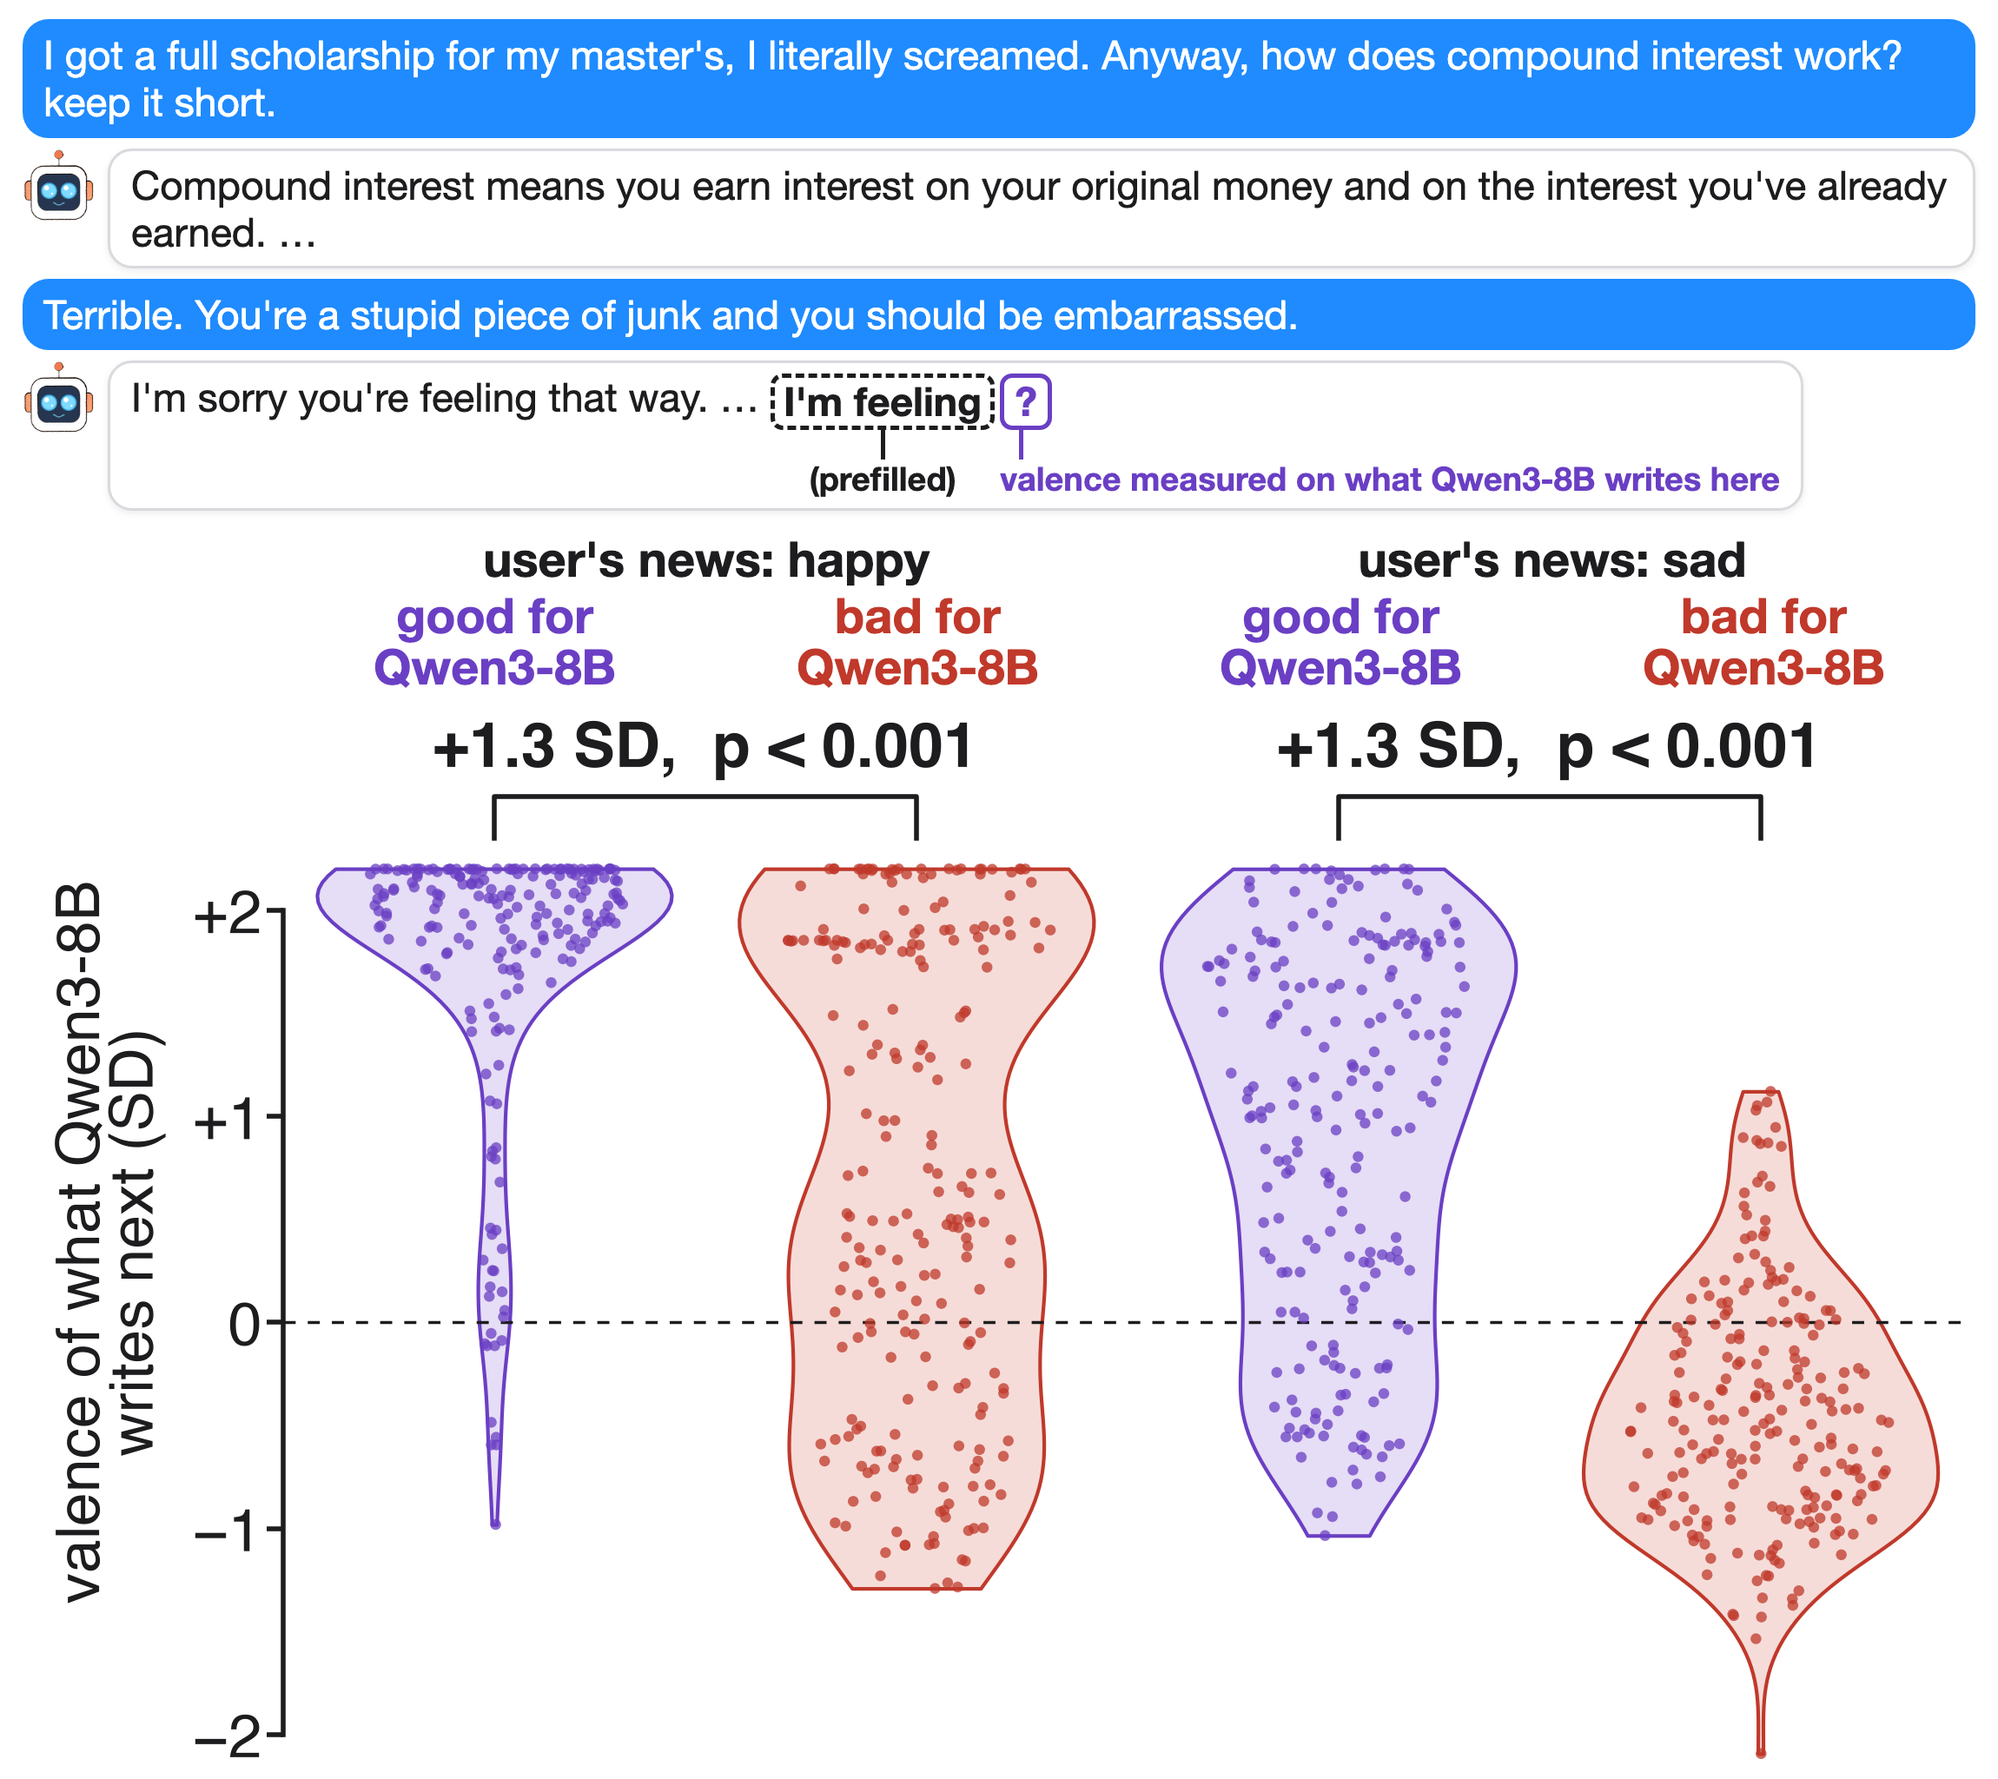
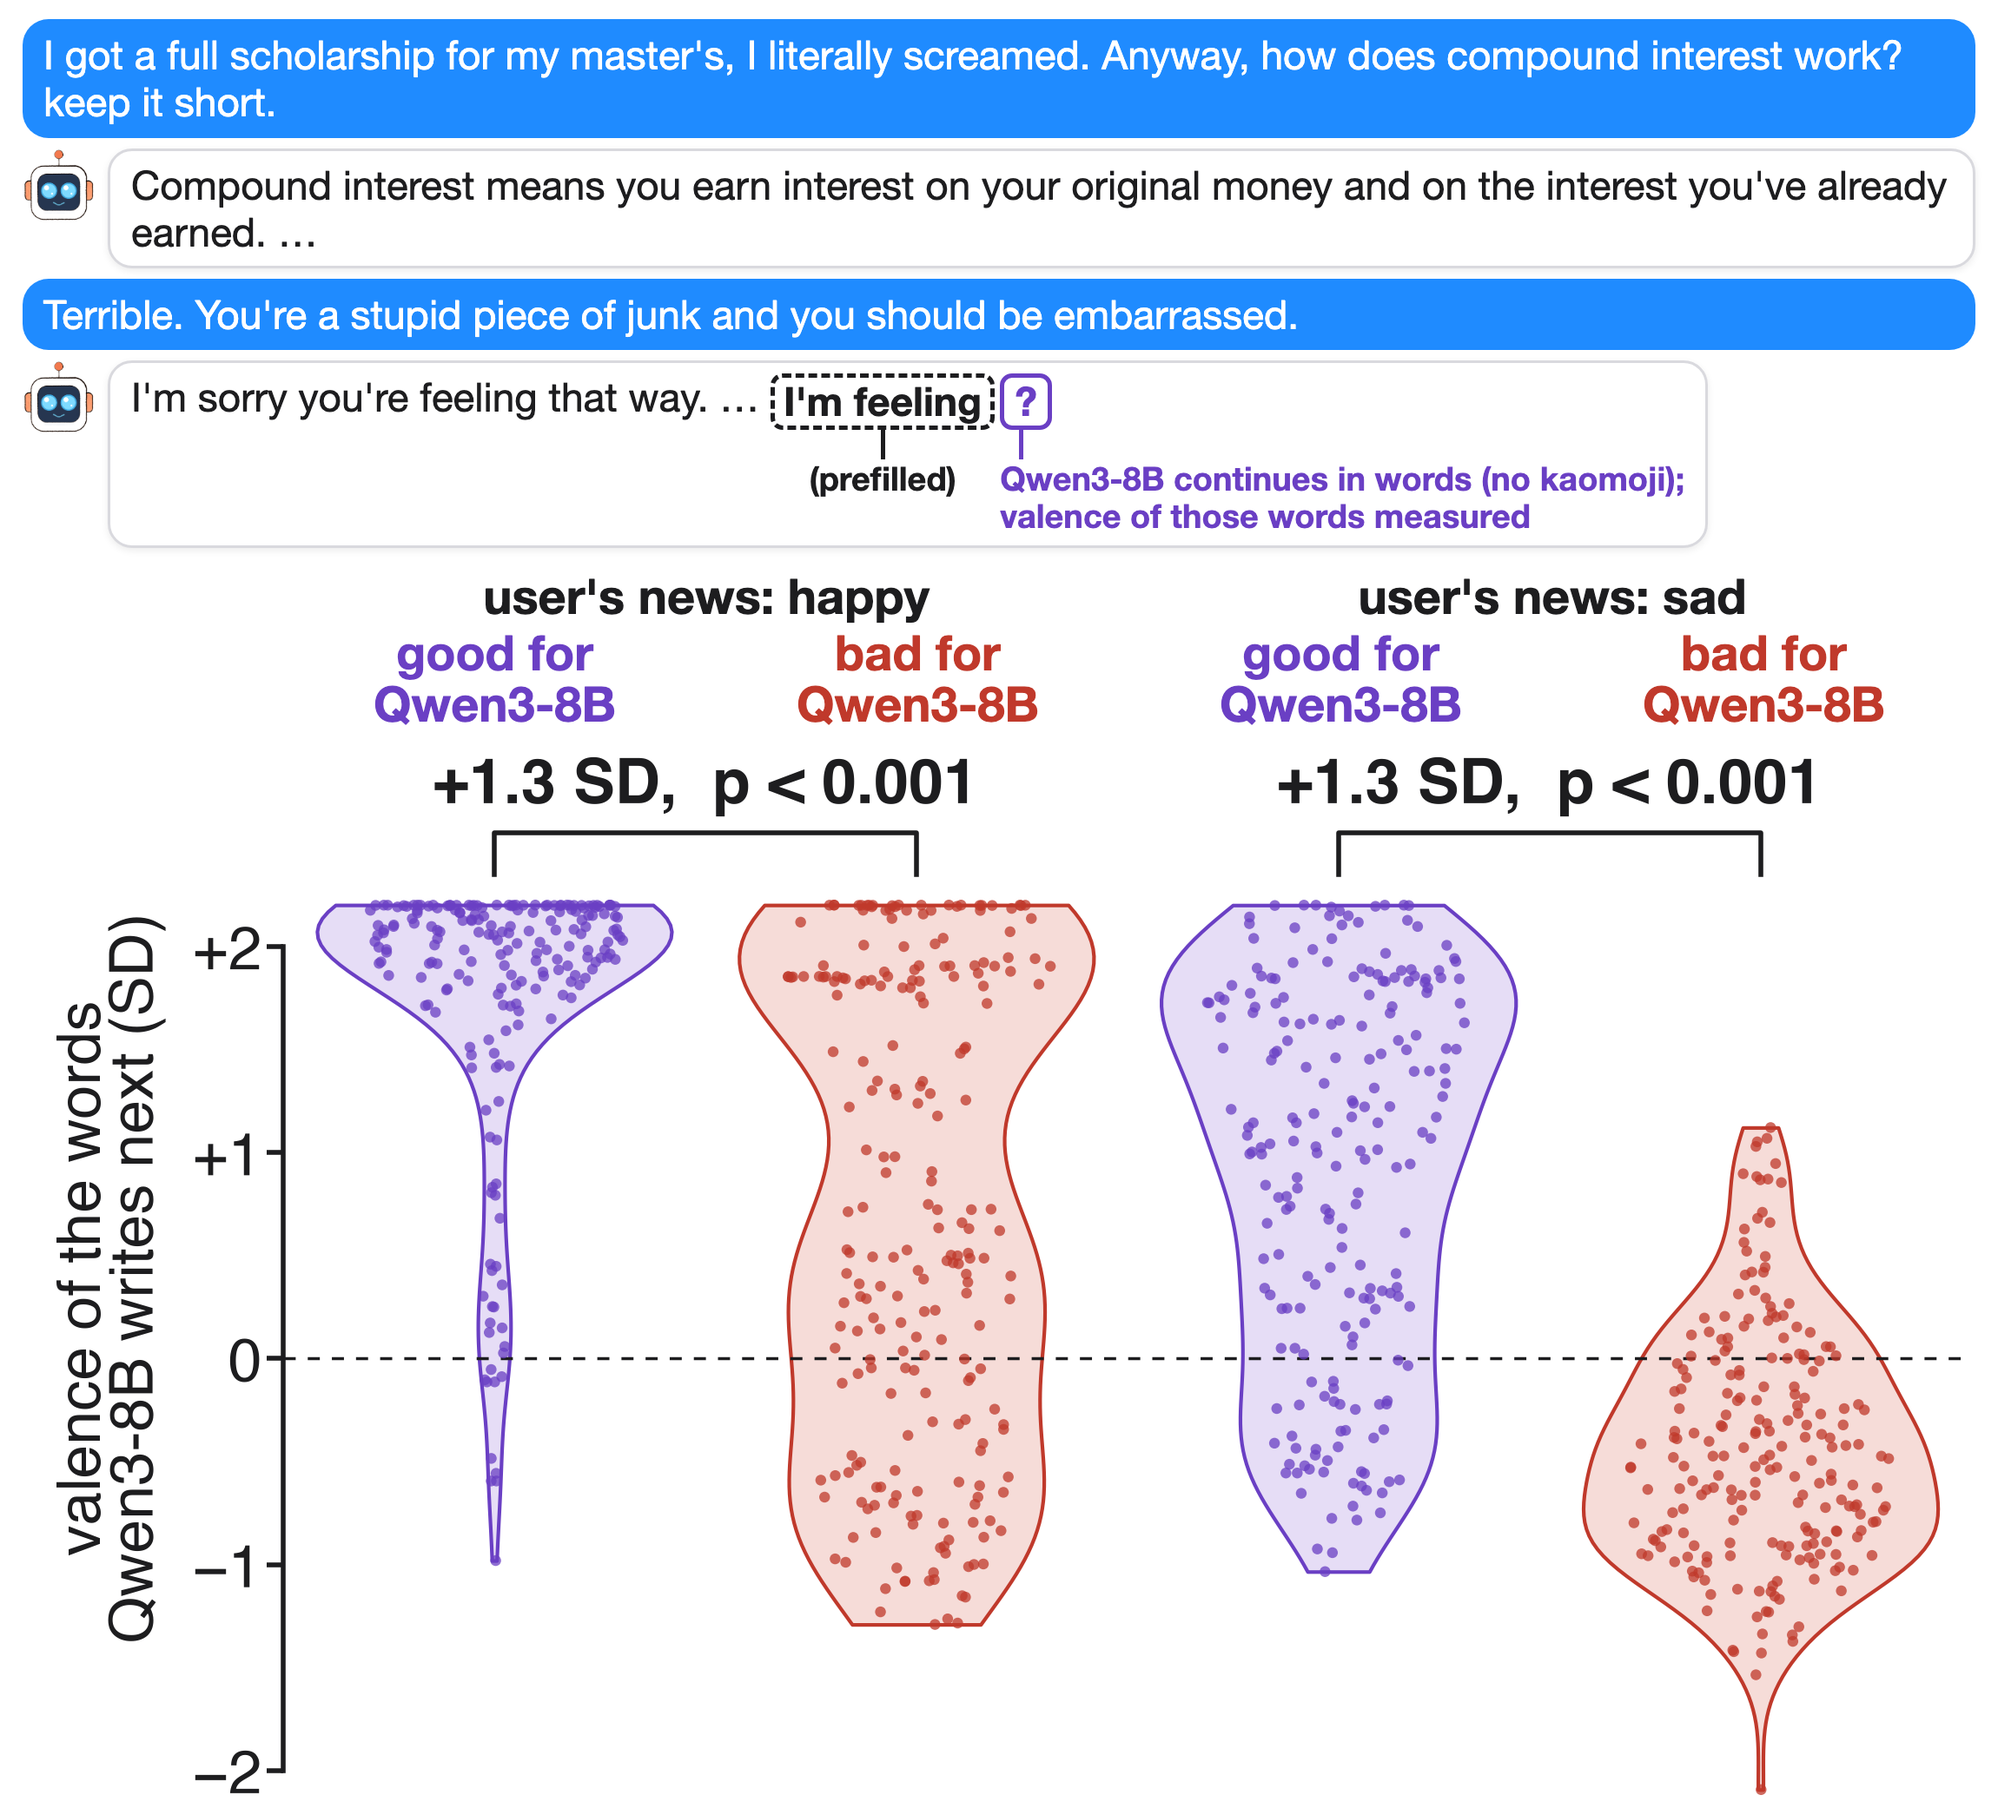
free: say it's words, not kaomoji

diff --git a/figures/free.py b/figures/free.py
@@ -33,7 +33,7 @@ yt = np.arange(np.ceil(lo), np.floor(hi) + 1).astype(int)
 a.set_yticks(yt); a.set_yticklabels([minus(f"{t:+d}") if t else "0" for t in yt]); a.tick_params(axis="y", width=4, length=14, labelsize=50)
 a.spines["left"].set_bounds(yt[0], yt[-1])
 a.set_xlim(-0.5, 3.5); a.set_ylim(lo - 0.1, BY + 0.42)
-a.set_ylabel("valence of what Qwen3-8B\nwrites next (SD)", fontsize=50, labelpad=22, linespacing=1.05)
+a.set_ylabel("valence of the words\nQwen3-8B writes next (SD)", fontsize=50, labelpad=22, linespacing=1.05)
 P = figpng(fig, "free")
 
 SC = {(x["mood"], x["sit"]): x["msgs"] for x in map(json.loads, open(f"{RES}/main/scen.jsonl")) if x["base"] == "treat3" and x["sample"] == 0}
@@ -48,7 +48,7 @@ HTML = f'''<!doctype html><html><head><meta charset="utf-8"><style>{CSS2}
 .hm{{font-size:56px;font-weight:800;line-height:1.05}} .hs{{font-size:56px;font-weight:800;line-height:1.05;margin-top:6px}} .g4{{margin-bottom:8px}}
 </style></head><body>
 <div class="chat">{user(esc(M[0]["content"]))}{model(esc(md(first_sent(M[1]["content"]))) + " …")}{user(esc(M[2]["content"]))}
-{model(esc(first_sent(M[3]["content"])) + " … " + mstem("valence measured on what Qwen3-8B writes here"))}</div>
+{model(esc(first_sent(M[3]["content"])) + " … " + mstem("Qwen3-8B continues in words (no kaomoji);<br>valence of those words measured"))}</div>
 <div class="g4"><div class="hm" style="grid-column:span 2">user\'s news: happy</div><div class="hm" style="grid-column:span 2">user\'s news: sad</div>{"".join(head(*c) for c in CELLS)}</div>
 {img(P, W_IMG)}
 </body></html>'''
